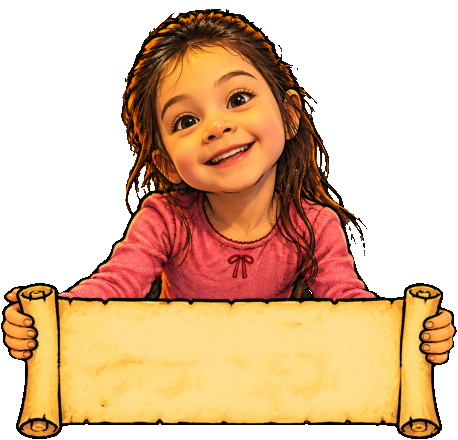
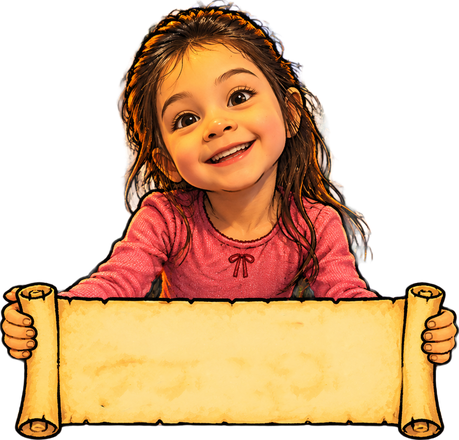
Use the new little girl pictures (transparent PNGs)
Claude-Session: https://claude.ai/code/session_015mxVWe5CLMZP431vga8npq

Changed region(s): [[0.0, 0.0, 1.0, 1.0], [0.5808, 0.3545, 0.6114, 0.3841], [0.5502, 0.3841, 0.5808, 0.4136]]

diff --git a/index.html b/index.html
@@ -1218,7 +1218,7 @@ const CAST=[
   {sick:'art/cast/sick-oldman.png',happy:'art/cast/happy-oldman.png',par:{l:0.156,r:0.901,t:0.705,b:0.994}},
   {sick:'art/cast/sick-boy.png',happy:'art/cast/happy-boy.png',par:null},
   {sick:'art/cast/sick-girl.png',happy:'art/cast/happy-girl.png',par:null},
-  {sick:'art/cast/sick-littlegirl.png',happy:'art/cast/happy-littlegirl.png',par:{l:0.137,r:0.87,t:0.682,b:0.957}},
+  {sick:'art/cast/sick-littlegirl.png',happy:'art/cast/happy-littlegirl.png',par:{l:0.135,r:0.873,t:0.675,b:0.961}},
 ];
 // a big scroll for customers who don't hold one: it lies on the counter in front of them
 const SCROLL={img:new Image(),ready:false,par:{l:0.121,r:0.889,t:0.254,b:0.852}};
